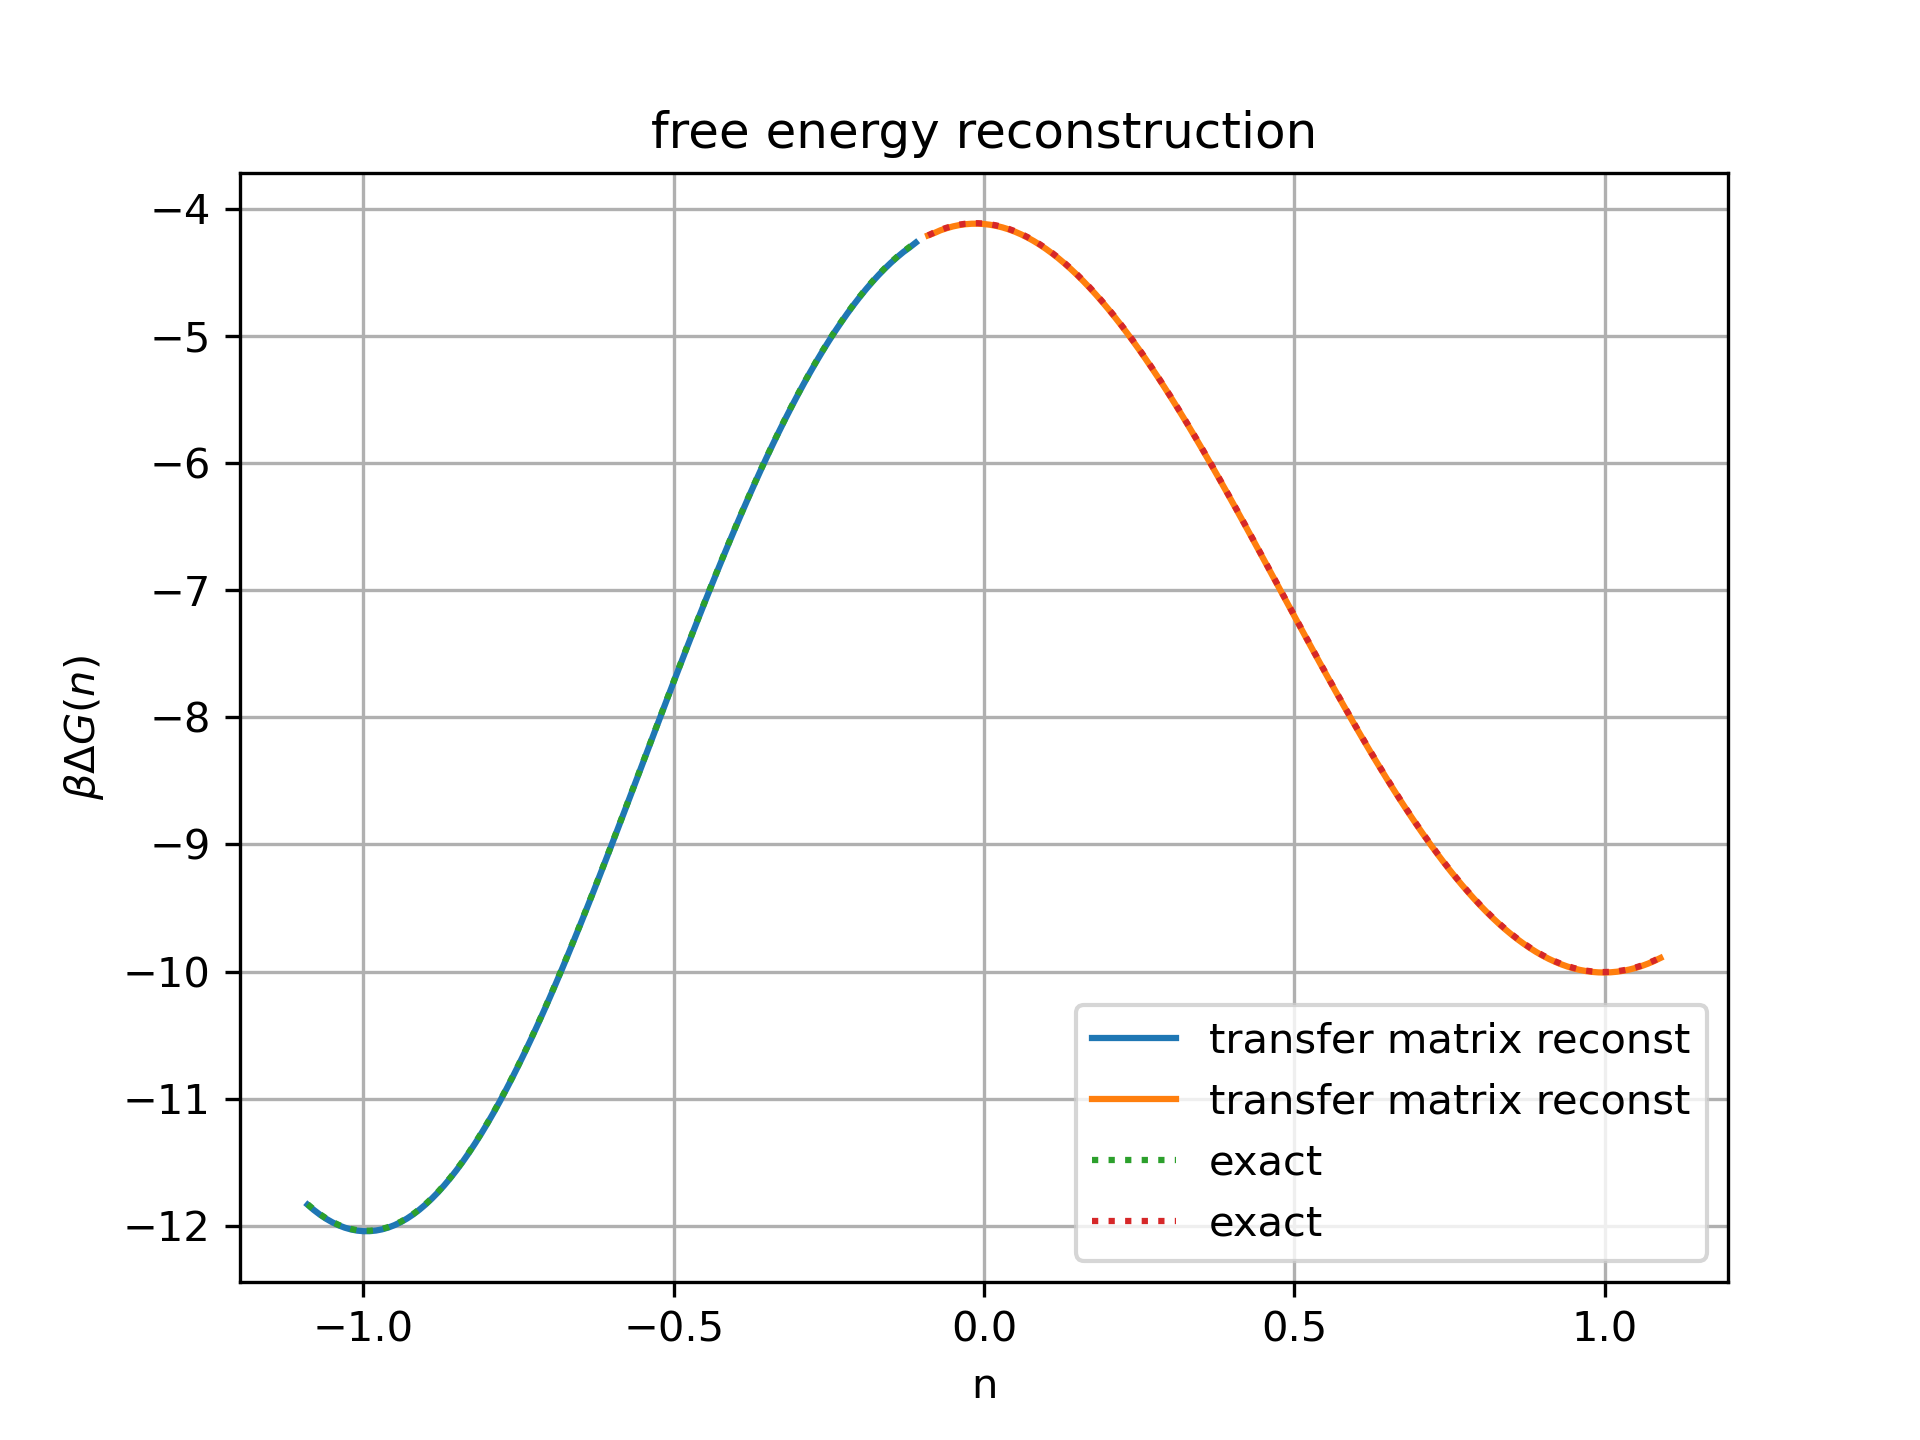
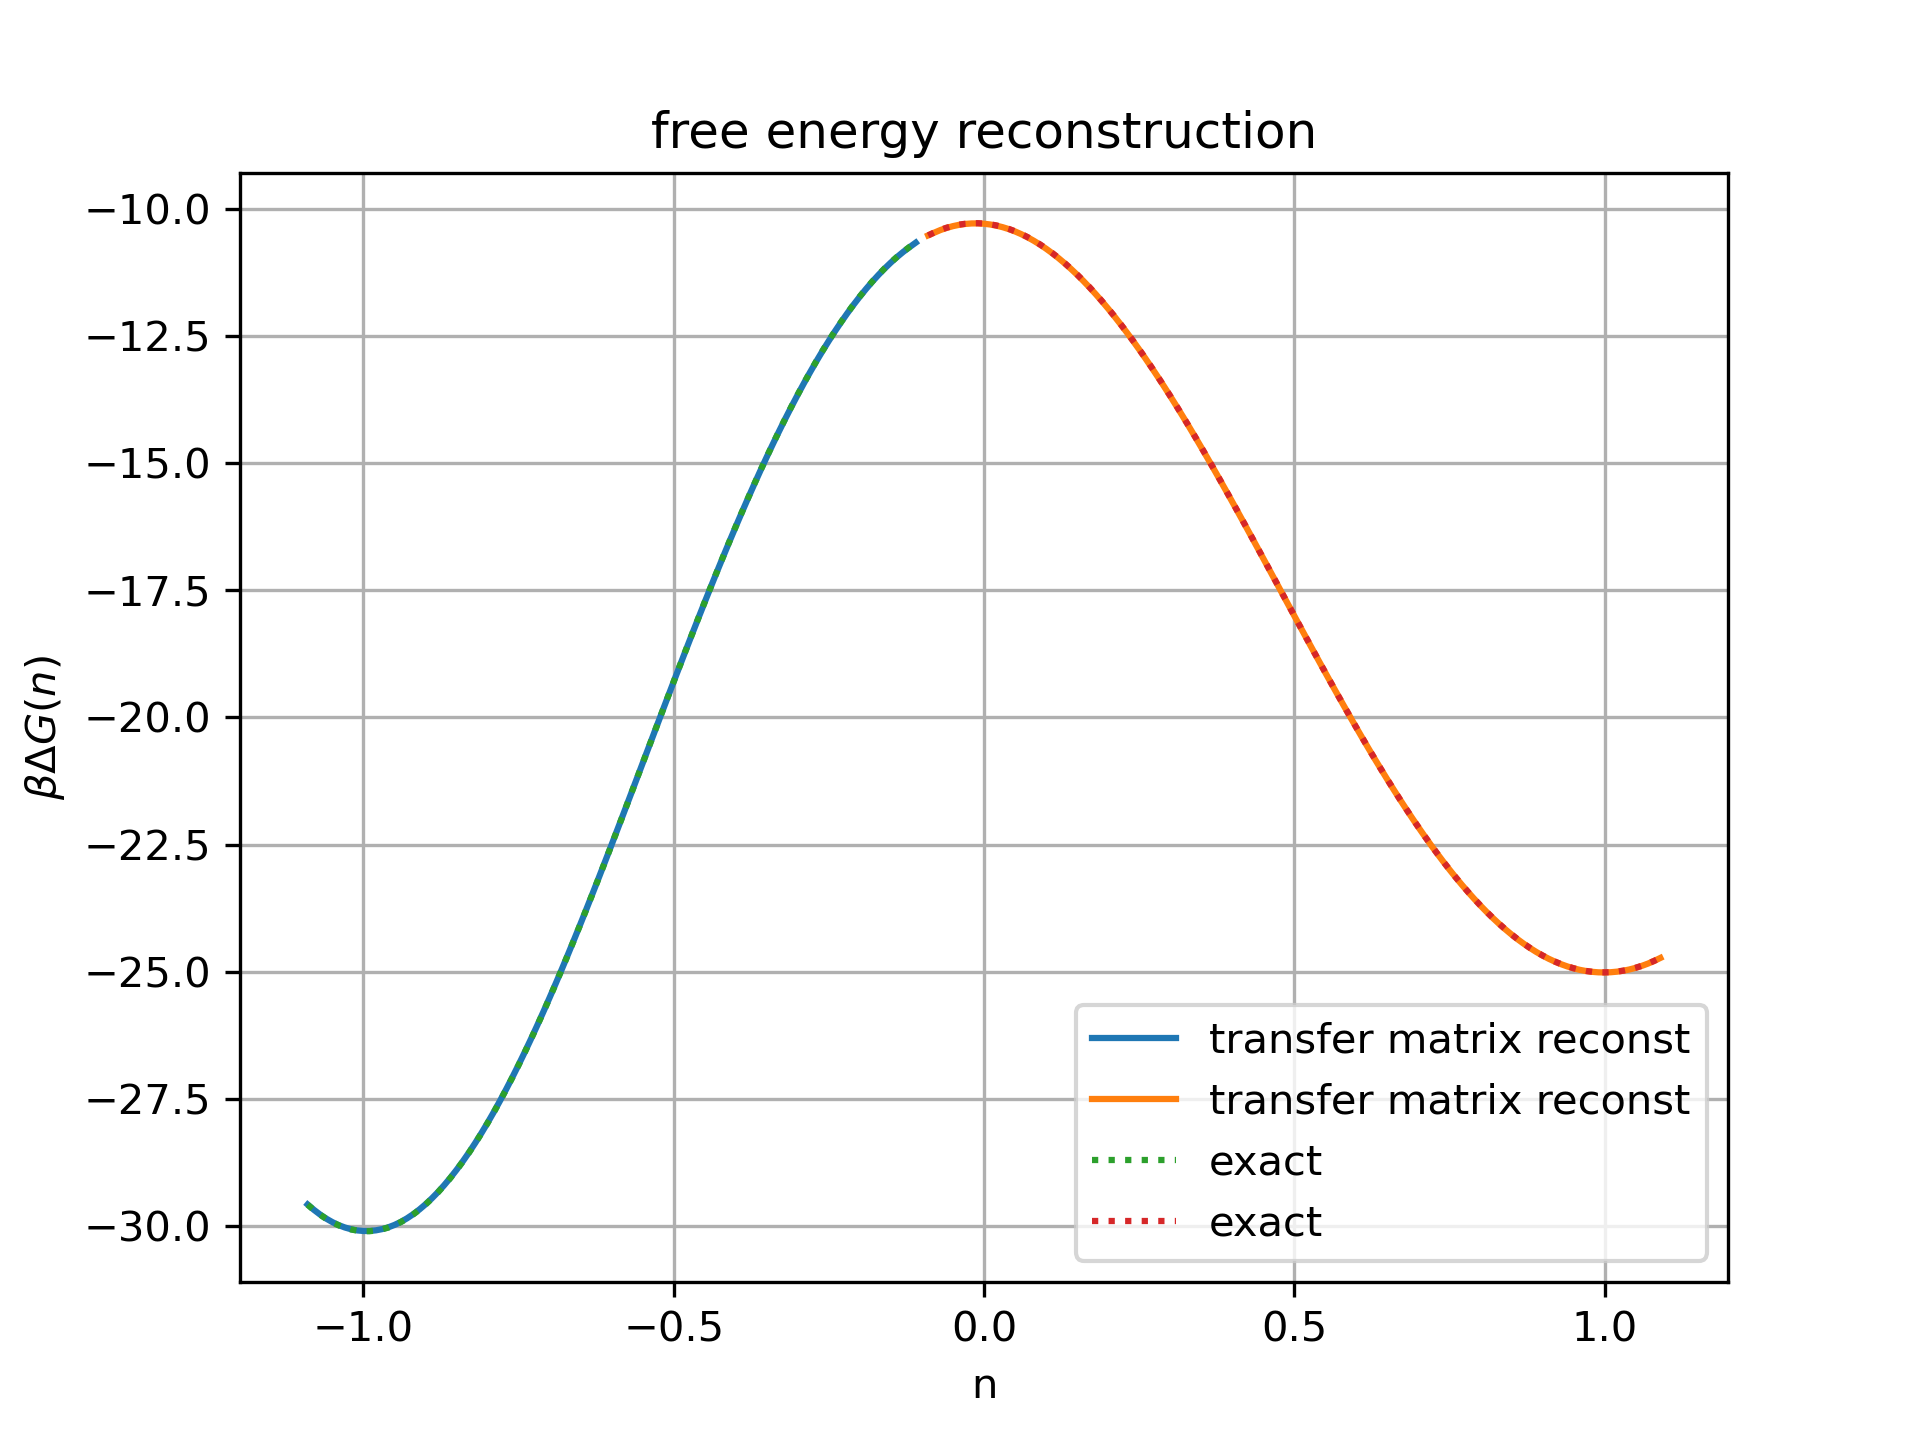
Two-region simulation script, data, and graphs for random walk with high energy barrier

diff --git a/Two_region_method/Random_walk_Model/two_region_reconst_simulation.py b/Two_region_method/Random_walk_Model/two_region_reconst_simulation.py
@@ -7,8 +7,8 @@ from scipy.interpolate import interp1d, PchipInterpolator, CubicSpline
 
 # Define the double-well potential using two Gaussian functions
 # def double_gaussian_potential(x, A1=3, mu1=-1, sigma1=0.5, A2=4, mu2=1, sigma2=0.6):
-def double_gaussian_potential(x, A1=12, mu1=-1, sigma1=0.5, A2=10, mu2=1, sigma2=0.6):
-# def double_gaussian_potential(x, A1=30, mu1=-1, sigma1=0.5, A2=25, mu2=1, sigma2=0.6):
+# def double_gaussian_potential(x, A1=12, mu1=-1, sigma1=0.5, A2=10, mu2=1, sigma2=0.6):
+def double_gaussian_potential(x, A1=30, mu1=-1, sigma1=0.5, A2=25, mu2=1, sigma2=0.6):
     V1 = A1 * np.exp(-((x - mu1)**2) / (2 * sigma1**2))
     V2 = A2 * np.exp(-((x - mu2)**2) / (2 * sigma2**2))
     return -(V1 + V2)
